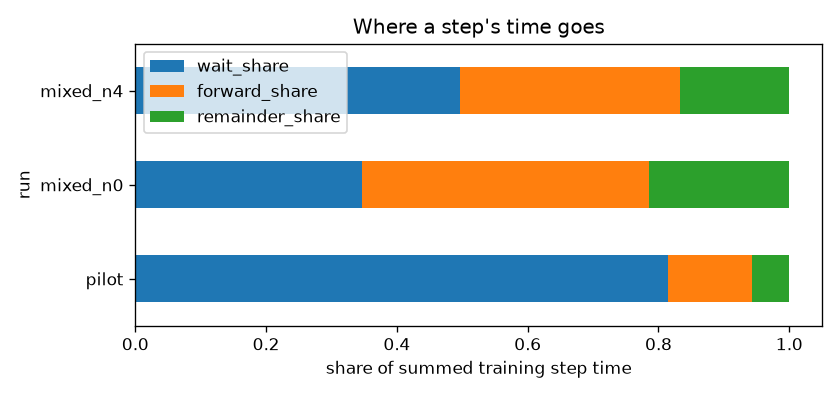
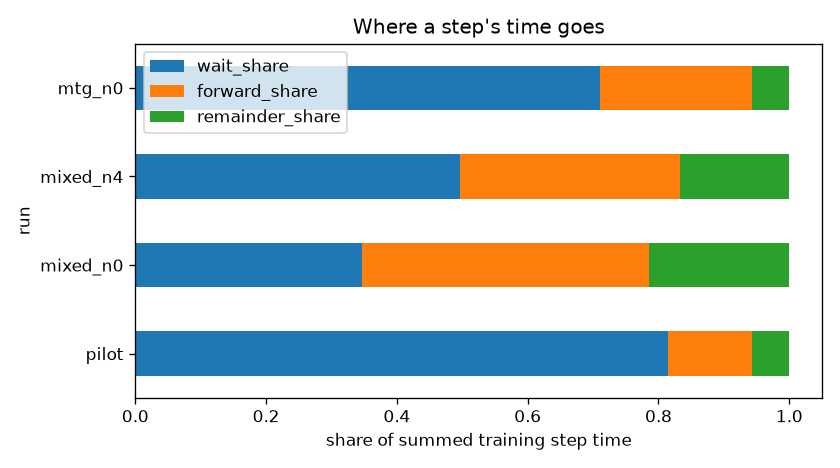
scale_profile: mtg_n0 bench note and recorded config
Claude-Session: https://claude.ai/code/session_01FEiz1dDeRYdUUoF1ZHgSJy

diff --git a/experiments/2026-10-24_scale_profile/bench_notes/2026-10-24_1345_mtg_n0_done.md b/experiments/2026-10-24_scale_profile/bench_notes/2026-10-24_1345_mtg_n0_done.md
@@ -1,0 +1,58 @@
+# 2026-10-24 13:45 · run mtg_n0 done
+
+**Run:** mtg_n0 · **Config:** `configs/mtg_n0.yaml` (recorded) · **Exit:** 0 · **Duration:** 28 min (estimate 50) · **Commit:** f016290
+
+`contrastive.mtg` alone, 1 round × 6,000 steps, with augmentation off (`variants: 0`)
+and a uniform diet. It did not stop early, and the log has no error.
+
+## Key numbers
+
+From `results/run_summary.csv`, `by_dojo.csv` and `mtg_projection.csv`
+(`profile_report.py pilot mixed_n0 mixed_n4 mtg_n0`), and the profile's
+`builds.csv` and `reserves.csv`.
+
+- **Startup:** 4.0 min: build_dojos 0.9, preflight 0.1, warm 3.0
+  (34,666 MTG texts). Training, with one TEST pass, took 24.0 min.
+- **Steps:** 6,000, all completed. Each step has 512 cards, which is 256 decks × 2
+  cards, so 3.07M cards in total. The median step is 0.225 s and p90 0.240 s. Steady
+  throughput is 2,228 anchor cards/s in steps and 2,227 on the wall clock.
+  That is 39% of mixed_n0's steady rate.
+- **Step parts, steady:** wait 69% of summed step time (the median step also
+  waits 70%), forward + loss 25%, remainder 6%. Training thread:
+  serialization 2.8%, cache lookups 2.4%.
+- **The worker:** 6,000 batch builds took 1,368 s in total, a median of 0.214 s per
+  batch (0.42 ms per card). Mods took 3.1 s. Reservations took 63 s and
+  encoded nothing live.
+- **Cache:** hit rate 100%; only the 34,666 warmed texts were ever encoded.
+  0 evictions.
+- **Projection (`mtg_projection.csv`, card factor still the 0.8
+  default):** 1,113 decks/s. One anchor pass over the 103.2M estimated
+  visits takes **12.9 h**, and the 129M upper bound takes 16.1 h. One pass that
+  draws 2 cards from each of the 5.53M TRAIN decks takes 1.4 h.
+
+## Where the data is
+
+- Raw data: `data/runs/2026-10-24_scale_profile/mtg_n0/`, with the profile CSVs in `profile/`.
+- Console capture: `data/runs/2026-10-24_scale_profile/logs/mtg_n0.log`
+- Windows counters: `data/runs/2026-10-24_scale_profile/logs/mtg_n0.{resources,utilization}.csv`
+
+## First observations
+
+- This run is bound by batch building. One worker thread builds each batch in
+  0.214 s and the step takes 0.225 s, so the training thread waits most of every
+  step. The cache is no longer the issue (100% hits, nothing live).
+- The GPU is almost idle (median 2.5%) while Python uses about 13.5
+  cores. The time goes to deck sampling and example assembly on the CPU,
+  not to the model.
+- The 12.9 h projection is the ideal (each anchor visited once). The
+  card factor is replaced after the queue by `mtg_train_visits.py`.
+
+## Resources and timing
+
+Python dedicated VRAM peaked at 6.85 GB (torch reserved 6.4 GiB, peak
+allocated 4.5 GiB). Python working set peaked at 5.3 GB; free RAM never went below 16.8
+GB. Over the steady window: GPU compute median 2.5%, p90 2.7%; Python CPU
+median 1,355% of one core.
+
+`mtg_n4` started 13:40:28. At this pace it should end around 14:10, and
+`probe_b2048` around 14:45.

diff --git a/experiments/2026-10-24_scale_profile/NOTEBOOK.md b/experiments/2026-10-24_scale_profile/NOTEBOOK.md
@@ -337,6 +337,7 @@ show it).
 What it can't answer: training quality at a 4x batch.
 
 - 2026-10-24 13:16 · run mixed_n4 done, exit 0, 84 min; steady 4,340 cards/s (0.77× mixed_n0), hit rate 99.1% steady, 0 evictions → [bench note](bench_notes/2026-10-24_1316_mixed_n4_done.md)
+- 2026-10-24 13:45 · run mtg_n0 done, exit 0, 28 min; 2,227 anchor cards/s steady, build-bound (wait 69%), projection 12.9 h (card factor 0.8) → [bench note](bench_notes/2026-10-24_1345_mtg_n0_done.md)
 
 ## Results
 
